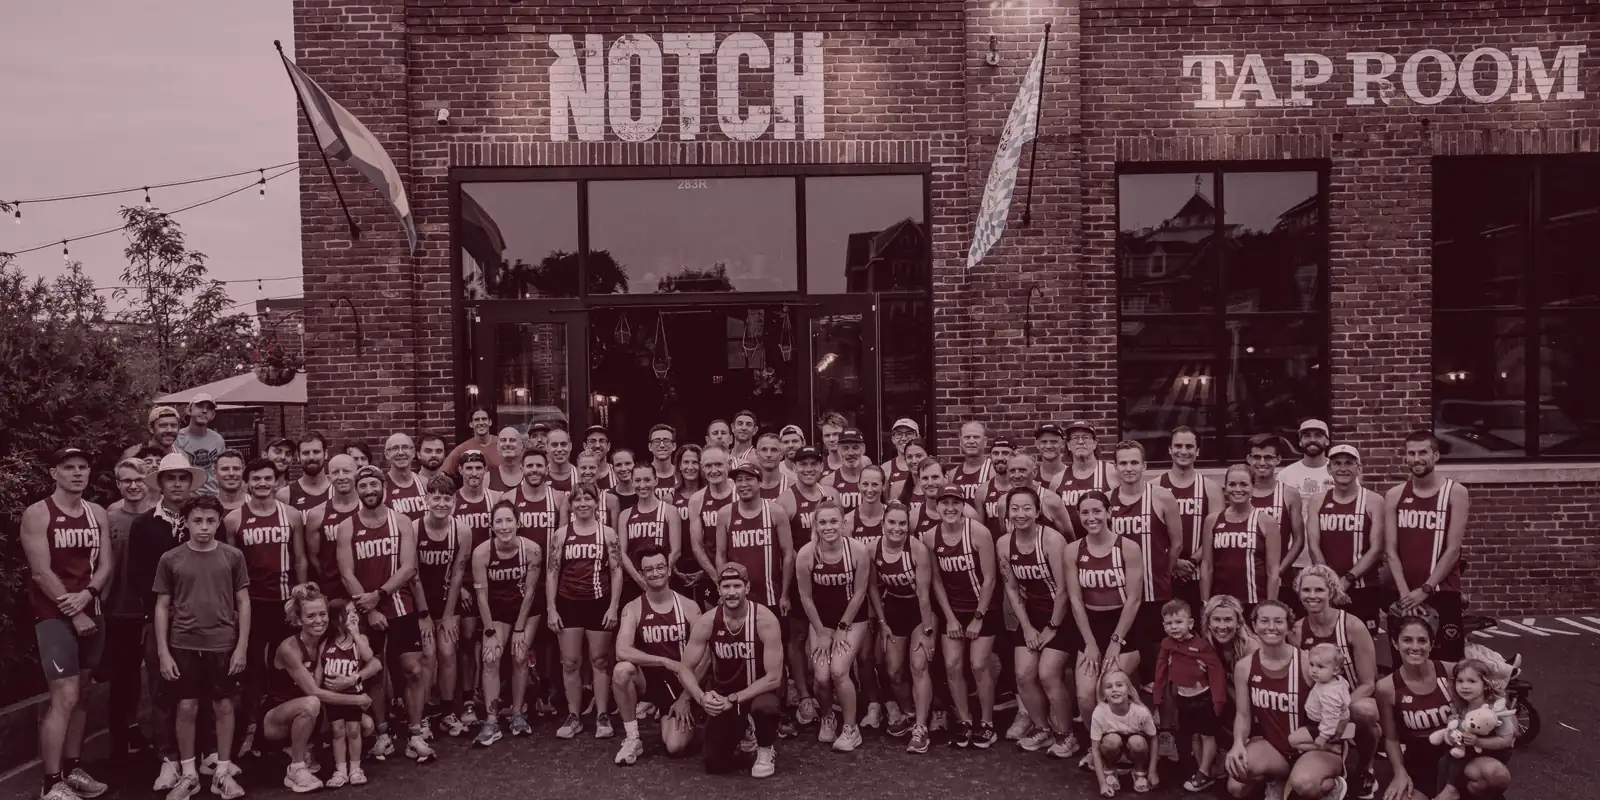
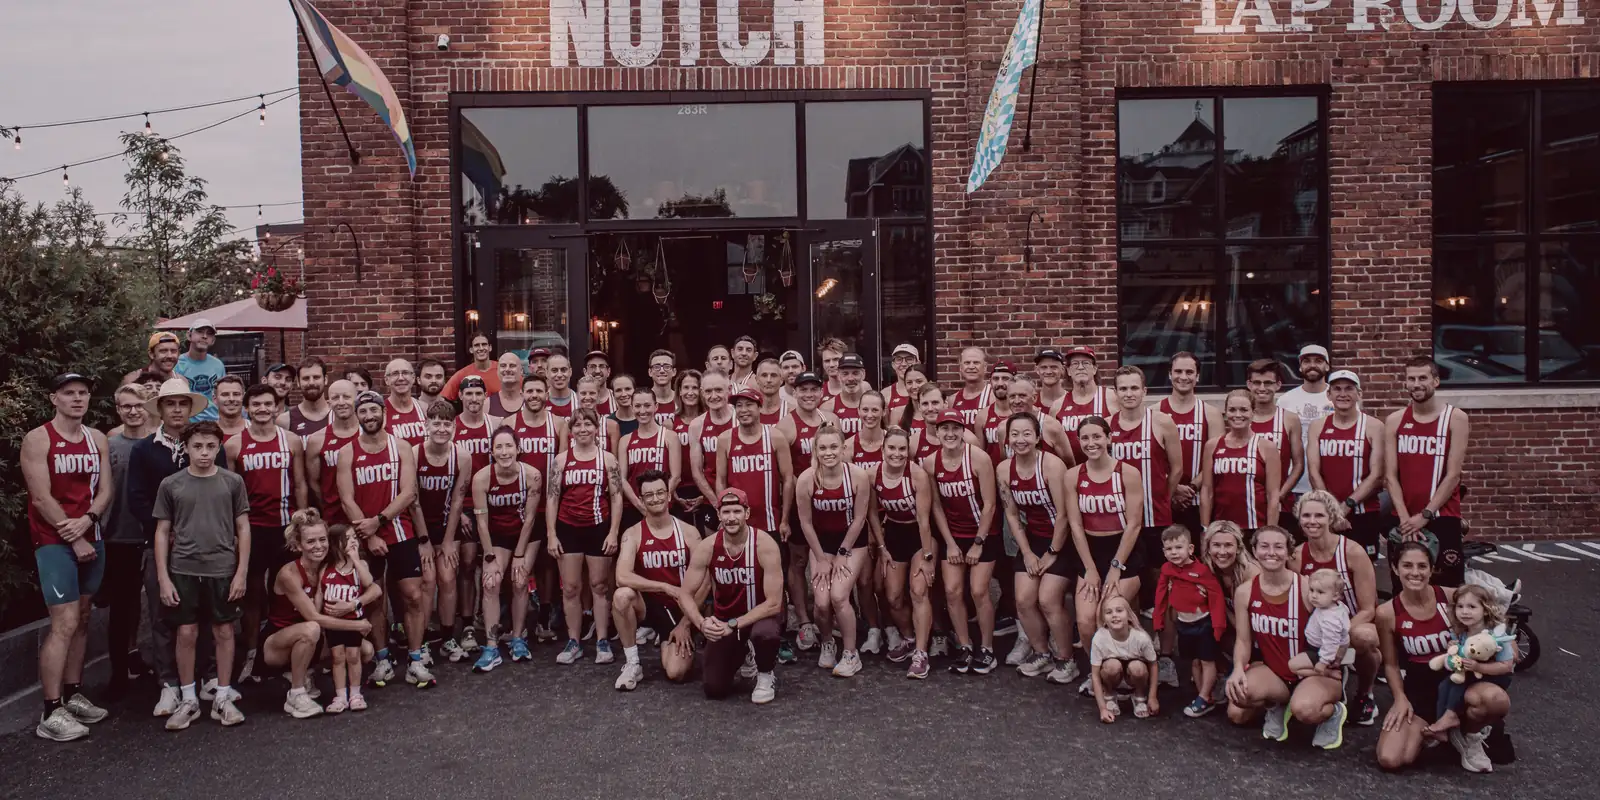
Recrop hero lower and bring the photograph forward
- Crop window moved down (y 0.08-0.83 -> 0.15-0.90): drops the roofline
  and signage, gains the full group including the kids at the front
- Duotone blend dialled back from 80/20 to 50/50 so the picture reads as a
  photograph rather than a maroon wash
- Lighter right-hand scrim and a lower background-position on both the
  desktop and stacked layouts

Claude-Session: https://claude.ai/code/session_011iq96hQDeaCR9LvEhnrdcD

diff --git a/index.html b/index.html
@@ -89,13 +89,13 @@ p{max-width:62ch}
 .hero{position:relative;color:var(--white);overflow:hidden;background-color:var(--maroon-dk);
   background-image:
     linear-gradient(97deg,
-      rgba(46,11,20,.92) 0%, rgba(46,11,20,.78) 32%,
-      rgba(46,11,20,.34) 60%, rgba(46,11,20,.10) 82%, rgba(46,11,20,0) 100%),
-    linear-gradient(180deg, rgba(20,22,21,.30) 0%, rgba(20,22,21,0) 40%, rgba(20,22,21,.42) 100%),
+      rgba(46,11,20,.90) 0%, rgba(46,11,20,.70) 30%,
+      rgba(46,11,20,.22) 58%, rgba(46,11,20,0) 80%, rgba(46,11,20,0) 100%),
+    linear-gradient(180deg, rgba(20,22,21,.22) 0%, rgba(20,22,21,0) 44%, rgba(20,22,21,.30) 100%),
     url("img/hero.webp");
   background-repeat:no-repeat;
   background-size:cover,cover,cover;
-  background-position:center,center,center 36%}
+  background-position:center,center,center 62%}
 .hero .in{position:relative;z-index:1}
 .hero h1{text-shadow:0 3px 26px rgba(20,22,21,.5)}
 .hero .sub{text-shadow:0 2px 14px rgba(20,22,21,.55)}
@@ -315,11 +315,11 @@ body.locked{overflow:hidden}
   .navlinks a:last-child{border-bottom:0}
   .hero{background-image:
     linear-gradient(180deg,
-      rgba(46,11,20,.88) 0%, rgba(46,11,20,.74) 46%,
-      rgba(46,11,20,.46) 74%, rgba(46,11,20,.34) 100%),
-    linear-gradient(180deg, rgba(20,22,21,.34), rgba(20,22,21,.34)),
+      rgba(46,11,20,.86) 0%, rgba(46,11,20,.68) 48%,
+      rgba(46,11,20,.34) 76%, rgba(46,11,20,.22) 100%),
+    linear-gradient(180deg, rgba(20,22,21,.24), rgba(20,22,21,.24)),
     url("img/hero.webp");
-    background-position:center,center,center 32%}
+    background-position:center,center,center 58%}
   .hero .in{grid-template-columns:1fr;gap:0}
   .hero-txt{padding:52px 0 8px}
   .hero-img{padding:12px 0 46px;justify-content:flex-start}
